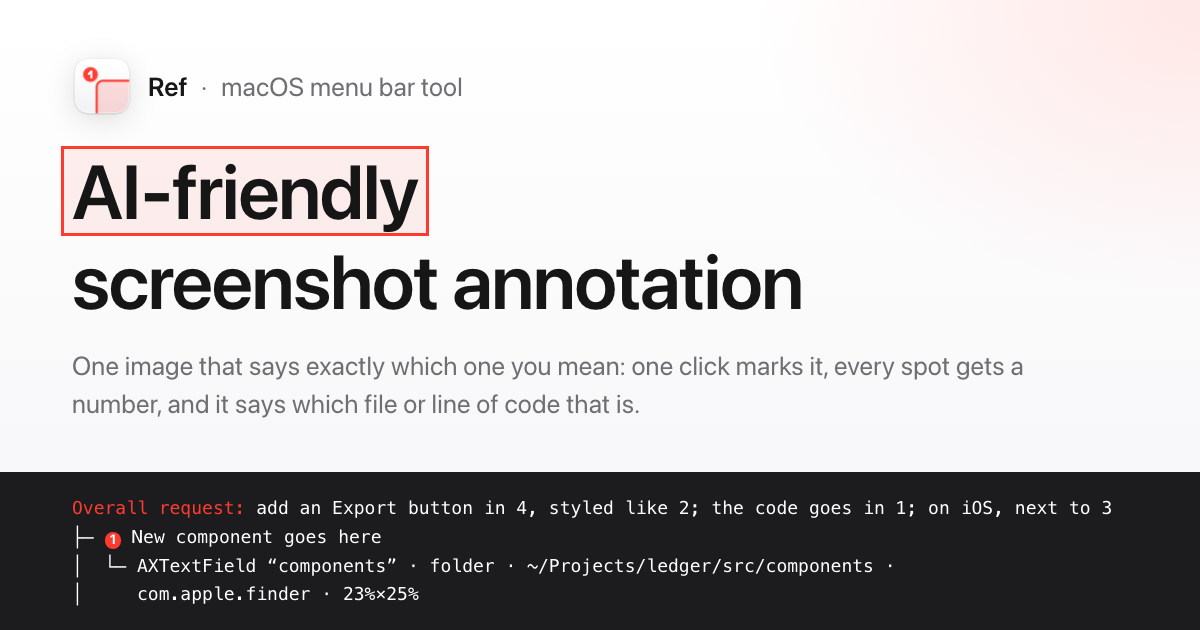
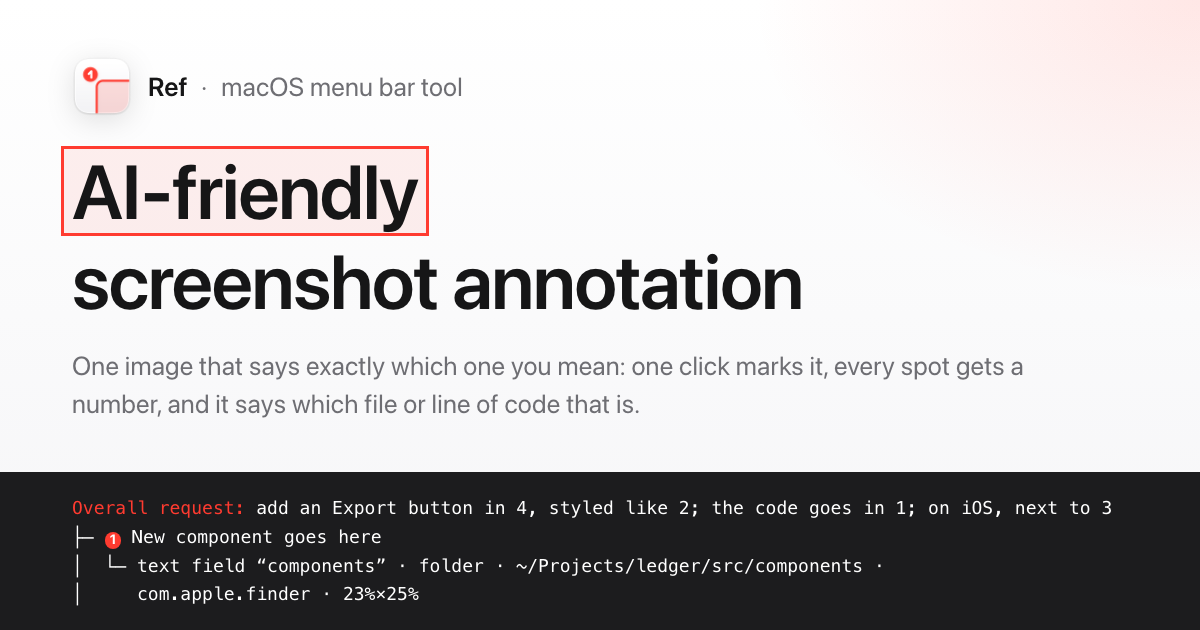
site: 51cef524d9dd (push)

Changed region(s): [[0.4317, 0.8746, 0.74, 0.9349], [0.1233, 0.8746, 0.4008, 0.9048]]

diff --git a/assets/site.js b/assets/site.js
@@ -143,11 +143,12 @@
         hotkey: "⌥⌘R", request: "要求", typeText: "输入文字", overall: "整体要求", whole: "当前屏幕", cancel: "取消", copy: "复制",
         toast: "已复制 · 6 处标注", play: "标注演示", length: "0:38", wheel: "滚轮", skip: "跳过",
         hints: { frame: "点击元素或拖出区域 · 滚动切换父/子及被遮挡的元素", arrow: "拖动画出箭头", text: "点击要放文字的位置" },
-        rows: ["选框 · AXTextField “components” · ~/Projects/ledger/src/components · 访达", "选框 · AXButton “新建发票”", "选框 · UIButton “新建” · 模拟器", "区域", "箭头", "文字"],
+        textRole: "文本",
+        rows: ["选框 · 输入框 “components” · ~/Projects/ledger/src/components · 访达", "选框 · 按钮 “新建发票”", "选框 · UIButton “新建” · 模拟器", "区域", "箭头", "文字"],
         cardHint: "按住空格可复制",
         cards: [
-          ["AXTextField", [["名称", "components"], ["路径", "/Users/kai/Projects/ledger/src/components", 1], ["尺寸", "82×21 pt", 1], ["应用", "com.apple.finder", 1]]],
-          ["AXButton", [["名称", "新建发票"], ["组件", "Toolbar", 1], ["源码", "src/components/Toolbar.tsx:18", 1], ["选择器", "button.primary", 1], ["尺寸", "112×32", 1],
+          ["输入框", [["名称", "components"], ["路径", "/Users/kai/Projects/ledger/src/components", 1], ["尺寸", "82×21 pt", 1], ["应用", "com.apple.finder", 1]]],
+          ["按钮", [["名称", "新建发票"], ["组件", "Toolbar", 1], ["源码", "src/components/Toolbar.tsx:18", 1], ["选择器", "button.primary", 1], ["尺寸", "112×32", 1],
             ["字体", "13px Inter 600", 1], ["颜色", "#FFFFFF", 1], ["背景", "#0D44E8", 1], ["页面", "http://localhost:3100/invoices", 1], ["应用", "com.apple.Safari", 1]]],
           ["UIButton", [["名称", "新建"], ["类", "PillButton", 1], ["属性", "InvoiceListViewController.addButton", 1], ["Frame", "(296, 62) 80×44 pt", 1],
             ["字体", "17pt SFProText-Semibold", 1], ["颜色", "#FFFFFF", 1], ["背景", "#0D44E8", 1], ["圆角", "22", 1], ["设备", "iPhone 17 Pro"], ["应用", "com.apple.iphonesimulator", 1]]],
@@ -157,11 +158,12 @@
         hotkey: "⌥⌘R", request: "Request", typeText: "Type text", overall: "Overall request", whole: "Whole capture", cancel: "Cancel", copy: "Copy",
         toast: "Copied · 6 annotations", play: "Watch the demo", length: "0:40", wheel: "Scroll", skip: "Skip",
         hints: { frame: "Click an element or drag a region · Scroll for parent/child and covered elements", arrow: "Drag to draw an arrow", text: "Click where the text should go" },
-        rows: ["Framed element · AXTextField “components” · ~/Projects/ledger/src/components · Finder", "Framed element · AXButton “New invoice”", "Framed element · UIButton “New” · Simulator", "Region", "Arrow", "Text"],
+        textRole: "Text",
+        rows: ["Framed element · text field “components” · ~/Projects/ledger/src/components · Finder", "Framed element · button “New invoice”", "Framed element · UIButton “New” · Simulator", "Region", "Arrow", "Text"],
         cardHint: "Hold Space to copy",
         cards: [
-          ["AXTextField", [["Name", "components"], ["Path", "/Users/kai/Projects/ledger/src/components", 1], ["Size", "82×21 pt", 1], ["App", "com.apple.finder", 1]]],
-          ["AXButton", [["Name", "New invoice"], ["Component", "Toolbar", 1], ["Source", "src/components/Toolbar.tsx:18", 1], ["Selector", "button.primary", 1], ["Size", "124×32", 1],
+          ["Text field", [["Name", "components"], ["Path", "/Users/kai/Projects/ledger/src/components", 1], ["Size", "82×21 pt", 1], ["App", "com.apple.finder", 1]]],
+          ["Button", [["Name", "New invoice"], ["Component", "Toolbar", 1], ["Source", "src/components/Toolbar.tsx:18", 1], ["Selector", "button.primary", 1], ["Size", "124×32", 1],
             ["Font", "13px Inter 600", 1], ["Color", "#FFFFFF", 1], ["Background", "#0D44E8", 1], ["Page", "http://localhost:3100/invoices", 1], ["App", "com.apple.Safari", 1]]],
           ["UIButton", [["Name", "New"], ["Class", "PillButton", 1], ["Property", "InvoiceListViewController.addButton", 1], ["Frame", "(296, 62) 80×44 pt", 1],
             ["Font", "17pt SFProText-Semibold", 1], ["Color", "#FFFFFF", 1], ["Background", "#0D44E8", 1], ["Corner radius", "22", 1], ["Device", "iPhone 17 Pro"], ["App", "com.apple.iphonesimulator", 1]]],
@@ -272,8 +274,9 @@ const cursor = el("span", "d-cursor", '<svg viewBox="0 0 23 23" aria-hidden="tru
       /* The words in the page's own pixels, at the scale the button's size gives. */
       const [bw, bh] = fields[4][1].split("×").map(Number);
       const size = `${Math.round(text[2] / button[2] * bw)}×${Math.round(text[3] / button[3] * bh)}`;
-      return [{ role: title, name: fields[0][1], box: button, fields },
-        { role: "AXStaticText", name: fields[0][1], box: text, fields: [fields[0], [fields[4][0], size, 1], fields[8], fields[9]] }];
+      /* The map names every layer; the card heads plain text by what it says. */
+      return [{ role: title, title, name: fields[0][1], box: button, fields },
+        { role: d.textRole, title: fields[0][1], name: fields[0][1], box: text, fields: [fields[0], [fields[4][0], size, 1], fields[8], fields[9]] }];
     };
     /* LayerMap: a wireframe of the elements to scale over one row each, indented by nesting,
        the pointer's own hit marked with its glyph. */
@@ -292,7 +295,7 @@ const cursor = el("span", "d-cursor", '<svg viewBox="0 0 23 23" aria-hidden="tru
       map.querySelectorAll(".d-lrow").forEach((r, i) => r.classList.toggle("cur", i === k));
       map.querySelectorAll(".d-box").forEach((b, i) => { b.classList.toggle("cur", i === k); b.classList.toggle("hold", i === k - 1); });
       sides.forEach((name, i) => m2.style.setProperty(name, `${stack[k].box[i]}%`));
-      showCard(stack[k].role, stack[k].fields);
+      showCard(stack[k].title, stack[k].fields);
       cardBelow(stack[k].box);
     };
 

diff --git a/en/index.html b/en/index.html
@@ -200,10 +200,10 @@
 
       <pre class="demo-legend" data-legend><span class="ll" data-n="0"><em>Overall request: </em>add an Export button in 4, styled like 2; the code goes in 1; on iOS, next to 3</span>
 <span class="ll" data-n="1">├─ <i class="lb" data-n="1">①</i> New component goes here
-<s>│  └─ AXTextField “components” · folder · ~/Projects/ledger/src/components ·
+<s>│  └─ text field “components” · folder · ~/Projects/ledger/src/components ·
 │     com.apple.finder · 23%×25%</s></span>
 <span class="ll" data-n="2">├─ <i class="lb" data-n="2">②</i> Match this style
-<s>│  └─ AXButton “New invoice” · 92%×13%
+<s>│  └─ button “New invoice” · 92%×13%
 │     ↳ Toolbar @ src/components/Toolbar.tsx:18 · button.primary · 124×32
 │       13px Inter 600 #FFFFFF bg #0D44E8</s></span>
 <span class="ll" data-n="3">├─ <i class="lb" data-n="3">③</i> On iOS, put it left of this
@@ -287,7 +287,7 @@ Ref · 2880×1800 px · com.apple.Safari “Invoices — Ledger” · 2026-10-26
               </div>
             </div>
             <div class="mini-card">
-              <b>AXButton<small>Hold Space to copy</small></b>
+              <b>Button<small>Hold Space to copy</small></b>
               <span><i>Name</i><em>New invoice</em></span>
               <span><i>Selector</i><em>button.primary</em></span>
               <span><i>Page</i><em>localhost:3100/invoices</em></span>
@@ -323,7 +323,7 @@ Ref · 2880×1800 px · com.apple.Safari “Invoices — Ledger” · 2026-10-26
           <div class="bind-col">
             <div class="bind-crop crop-page"><b>Ledger</b><span class="on">Invoices</span><span>Customers</span><span class="cbtn mm set" data-n="2">New invoice</span></div>
             <pre class="bind-line"><i class="lb" data-n="2">②</i> Match this style
-<s>└─ AXButton · button.primary · Toolbar.tsx:18</s></pre>
+<s>└─ button · button.primary · Toolbar.tsx:18</s></pre>
           </div>
         </div>
         <p class="pblock-note">① on the image and ① in the legend are the same spot. The AI never guesses which sentence goes with which box.</p>
@@ -361,7 +361,7 @@ Ref · 2880×1800 px · com.apple.Safari “Invoices — Ledger” · 2026-10-26
           <li>
             <span class="ctx-el"><span class="ctx-btn mm set" data-n="2">New invoice</span></span>
             <span class="ctx-arrow"><svg viewBox="0 0 24 24"><path d="M4 12h15m0 0-5-5m5 5-5 5"/></svg></span>
-            <pre class="ctx-info">AXButton · http://localhost:3100/invoices
+            <pre class="ctx-info">button · http://localhost:3100/invoices
 <s>↳ Toolbar @ src/components/Toolbar.tsx:18 · button.primary</s></pre>
           </li>
           <li>
@@ -401,12 +401,12 @@ Ref · 2880×1800 px · com.apple.Safari “Invoices — Ledger” · 2026-10-26
               <span class="cross"></span>
             </div>
             <ul class="map-rows">
-              <li>AXWindow <s>ledger</s></li>
-              <li class="in1">AXSplitGroup</li>
-              <li class="in2">AXScrollArea</li>
-              <li class="in3 sel">AXRow</li>
-              <li class="in4">AXTextField <s>components</s><i class="hit"></i></li>
-              <li class="in4">AXImage</li>
+              <li>Window <s>ledger</s></li>
+              <li class="in1">Split view</li>
+              <li class="in2">Scroll area</li>
+              <li class="in3 sel">Row</li>
+              <li class="in4">Text field <s>components</s><i class="hit"></i></li>
+              <li class="in4">Image</li>
             </ul>
           </div>
         </div>
@@ -416,7 +416,7 @@ Ref · 2880×1800 px · com.apple.Safari “Invoices — Ledger” · 2026-10-26
       <article class="card">
         <div class="card-visual">
           <div class="hover-card small">
-            <div class="hover-row"><span>AXTextField</span><em>Click a row to copy</em></div>
+            <div class="hover-row"><span>Text field</span><em>Click a row to copy</em></div>
             <div class="hover-row"><span>Name</span><b>components</b><i class="cp"></i></div>
             <div class="hover-row on"><span>Path</span><code>/Users/<wbr>kai/<wbr>Projects/<wbr>ledger/<wbr>src/<wbr>components</code><i class="cp"></i></div>
             <div class="hover-row"><span>App</span><code>com.apple.finder</code><i class="cp"></i></div>

diff --git a/index.html b/index.html
@@ -200,10 +200,10 @@
 
       <pre class="demo-legend" data-legend><span class="ll" data-n="0"><em>整体要求：</em>照 2 的样式在 4 加一个导出按钮，代码放到 1，iOS 端加在 3 旁边</span>
 <span class="ll" data-n="1">├─ <i class="lb" data-n="1">①</i> 新组件放这里
-<s>│  └─ AXTextField “components” · folder · ~/Projects/ledger/src/components ·
+<s>│  └─ 输入框 “components” · folder · ~/Projects/ledger/src/components ·
 │     com.apple.finder · 23%×25%</s></span>
 <span class="ll" data-n="2">├─ <i class="lb" data-n="2">②</i> 参考它的样式
-<s>│  └─ AXButton “新建发票” · 93%×13%
+<s>│  └─ 按钮 “新建发票” · 93%×13%
 │     ↳ Toolbar @ src/components/Toolbar.tsx:18 · button.primary · 112×32
 │       13px Inter 600 #FFFFFF bg #0D44E8</s></span>
 <span class="ll" data-n="3">├─ <i class="lb" data-n="3">③</i> iOS 端加在它左边
@@ -287,7 +287,7 @@ Ref · 2880×1800 px · com.apple.Safari “发票 — Ledger” · 2026-10-26 1
               </div>
             </div>
             <div class="mini-card">
-              <b>AXButton<small>按住空格可复制</small></b>
+              <b>按钮<small>按住空格可复制</small></b>
               <span><i>名称</i><em>新建发票</em></span>
               <span><i>选择器</i><em>button.primary</em></span>
               <span><i>页面</i><em>localhost:3100/invoices</em></span>
@@ -323,7 +323,7 @@ Ref · 2880×1800 px · com.apple.Safari “发票 — Ledger” · 2026-10-26 1
           <div class="bind-col">
             <div class="bind-crop crop-page"><b>Ledger</b><span class="on">发票</span><span>客户</span><span class="cbtn mm set" data-n="2">新建发票</span></div>
             <pre class="bind-line"><i class="lb" data-n="2">②</i> 参考它的样式
-<s>└─ AXButton · button.primary · Toolbar.tsx:18</s></pre>
+<s>└─ 按钮 · button.primary · Toolbar.tsx:18</s></pre>
           </div>
         </div>
         <p class="pblock-note">图上的 ①、说明里的 ①，是同一处。AI 不用猜哪句话说的是哪个框。</p>
@@ -361,7 +361,7 @@ Ref · 2880×1800 px · com.apple.Safari “发票 — Ledger” · 2026-10-26 1
           <li>
             <span class="ctx-el"><span class="ctx-btn mm set" data-n="2">新建发票</span></span>
             <span class="ctx-arrow"><svg viewBox="0 0 24 24"><path d="M4 12h15m0 0-5-5m5 5-5 5"/></svg></span>
-            <pre class="ctx-info">AXButton · http://localhost:3100/invoices
+            <pre class="ctx-info">按钮 · http://localhost:3100/invoices
 <s>↳ Toolbar @ src/components/Toolbar.tsx:18 · button.primary</s></pre>
           </li>
           <li>
@@ -401,12 +401,12 @@ Ref · 2880×1800 px · com.apple.Safari “发票 — Ledger” · 2026-10-26 1
               <span class="cross"></span>
             </div>
             <ul class="map-rows">
-              <li>AXWindow <s>ledger</s></li>
-              <li class="in1">AXSplitGroup</li>
-              <li class="in2">AXScrollArea</li>
-              <li class="in3 sel">AXRow</li>
-              <li class="in4">AXTextField <s>components</s><i class="hit"></i></li>
-              <li class="in4">AXImage</li>
+              <li>窗口 <s>ledger</s></li>
+              <li class="in1">分栏</li>
+              <li class="in2">滚动区域</li>
+              <li class="in3 sel">行</li>
+              <li class="in4">输入框 <s>components</s><i class="hit"></i></li>
+              <li class="in4">图片</li>
             </ul>
           </div>
         </div>
@@ -416,7 +416,7 @@ Ref · 2880×1800 px · com.apple.Safari “发票 — Ledger” · 2026-10-26 1
       <article class="card">
         <div class="card-visual">
           <div class="hover-card small">
-            <div class="hover-row"><span>AXTextField</span><em>点一行复制</em></div>
+            <div class="hover-row"><span>输入框</span><em>点一行复制</em></div>
             <div class="hover-row"><span>名称</span><b>components</b><i class="cp"></i></div>
             <div class="hover-row on"><span>路径</span><code>/Users/<wbr>kai/<wbr>Projects/<wbr>ledger/<wbr>src/<wbr>components</code><i class="cp"></i></div>
             <div class="hover-row"><span>应用</span><code>com.apple.finder</code><i class="cp"></i></div>
